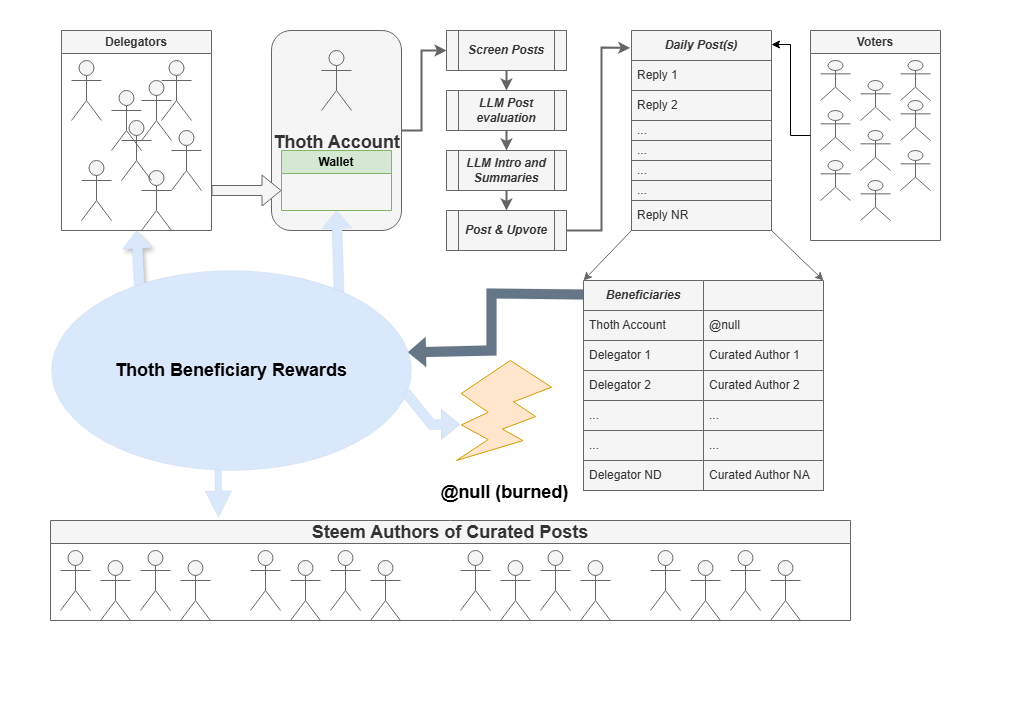
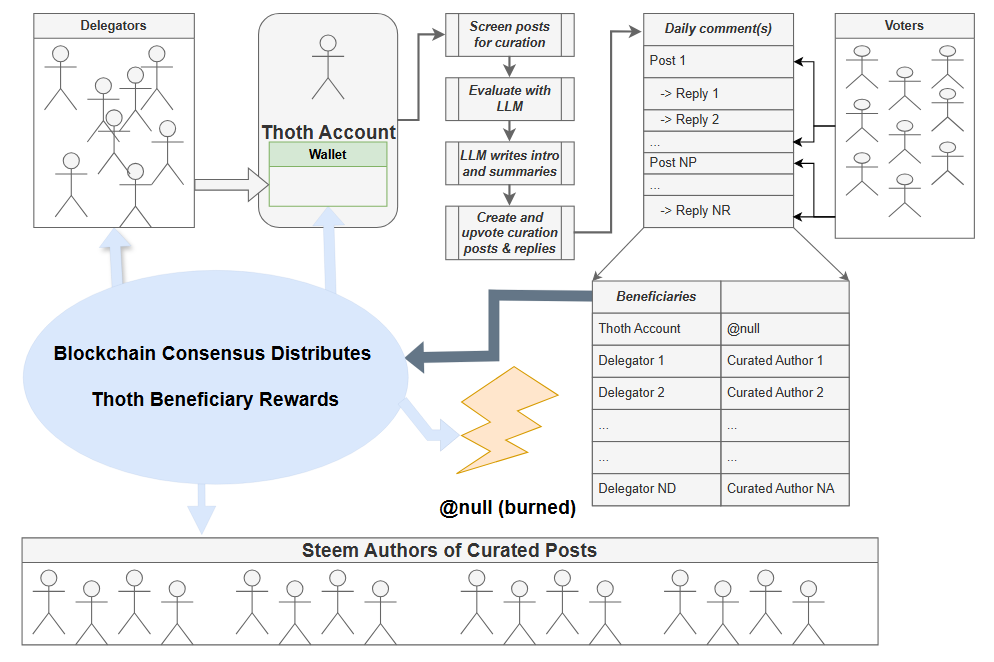
- Updated config template with additional parameters - Updated posts and replies to contain separate enumarations for beneficiary types. - Updated the process diagram for clarity

diff --git a/src/replyHelper.py b/src/replyHelper.py
@@ -5,6 +5,8 @@ import configparser
 import time
 import delegationInfo
 import threading
+import utils
+import steembase.exceptions # Required for specific exception handling
 
 # Create a ConfigParser object
 config = configparser.ConfigParser()
@@ -65,8 +67,44 @@ def create_beneficiary_list(beneficiary_list, curatedAuthorWeight, delegatorWeig
     return beneficiary_dicts
 
 def vote_in_background(postingAccount, permlink, voteWeight=100):
-    time.sleep(300)
-    Steem().commit.vote(f"@{postingAccount}/{permlink}", voteWeight, postingAccount)
+    """
+    Waits for an initial period, then attempts to vote in a loop until successful.
+    Retries upon failure, especially for vote timing errors.
+    """
+    initial_wait_seconds = 300  # 5 minutes
+    retry_delay_seconds = 5     # Base retry delay for general errors
+    vote_interval_retry_delay_base = 3 # Base delay for vote interval errors (Steem rule)
+    max_retries = 20
+    retries = 0
+
+    print(f"Vote for @{postingAccount}/{permlink} scheduled. Waiting {initial_wait_seconds // 60} minutes before first attempt...")
+    time.sleep(initial_wait_seconds)
+
+    while retries < max_retries:
+        try:
+            # Using simple Steem() instantiation as per current design in this function
+            s_instance = Steem()
+            print(f"Attempting to vote for @{postingAccount}/{permlink} (Attempt {retries + 1}/{max_retries})...")
+            s_instance.commit.vote(f"@{postingAccount}/{permlink}", voteWeight, postingAccount)
+            print(f"Successfully voted for @{postingAccount}/{permlink}")
+            break  # Exit loop on successful vote
+        except steembase.exceptions.RPCError as rpc_e:
+            retries += 1
+            if "STEEM_MIN_VOTE_INTERVAL_SEC" in str(rpc_e) or "Can only vote once every 3 seconds" in str(rpc_e):
+                # Add a small random jitter to the 3-second base to avoid thundering herd
+                wait_time = vote_interval_retry_delay_base + random.uniform(0.1, 1.0)
+                print(f"Vote for @{postingAccount}/{permlink} failed due to rate limit: {rpc_e}. Retrying in {wait_time:.2f} seconds (Attempt {retries}/{max_retries})...")
+                time.sleep(wait_time)
+            else:
+                print(f"Vote for @{postingAccount}/{permlink} failed with RPCError: {rpc_e}. Retrying in {retry_delay_seconds} seconds (Attempt {retries}/{max_retries})...")
+                time.sleep(retry_delay_seconds)
+        except Exception as e:
+            retries += 1
+            print(f"Vote for @{postingAccount}/{permlink} failed with an unexpected error: {e}. Retrying in {retry_delay_seconds} seconds (Attempt {retries}/{max_retries})...")
+            time.sleep(retry_delay_seconds)
+
+    if retries >= max_retries:
+        print(f"Failed to vote for @{postingAccount}/{permlink} after {max_retries} attempts.")
 
 def postReply (comment_item, ai_response_item, item_index, thothAccount, thothPermlink):
     """
@@ -148,26 +186,14 @@ This post was generated with the assistance of the following AI model: <i>{confi
         raw_beneficiaries_input.append(f"d-{delegator_name}") # Add selected delegators
         
     beneficiaryList = create_beneficiary_list(raw_beneficiaries_input, curatedAuthorWeight, adjustedDelegatorWeight)
-    body += f"\n\n<br><br>Beneficiaries:<br><br>"
-    body += "<table>"
-    
-    # Define the number of columns
-    columns = 2
-    for i, beneficiary in enumerate(beneficiaryList):
-        if i % columns == 0:  # Start a new row for every 'columns' items
-            body += "<tr>\n"
-        body += f'   <td>{beneficiary["account"]} / {beneficiary["weight"] / 100}%</td>\n'
-        if (i + 1) % columns == 0:  # Close the row after 'columns' items
-            body += "</tr>\n"
-    
-    # Fill remaining cells in the last row, if necessary
-    remaining_cells = columns - (len(beneficiaryList) % columns)
-    if remaining_cells != columns:  # Only add if the last row isn't full
-        for _ in range(remaining_cells):
-            body += "   <td></td>\n"  # Add empty cells
-        body += "</tr>\n"
-    
-    body += "</table><br><br>\n"
+    author_account = [comment_item['author']]
+    # selected_delegators is already defined above
+    body += utils.generate_beneficiary_display_html(
+        beneficiary_list=beneficiaryList,
+        author_accounts=author_account,
+        delegator_accounts=selected_delegators,
+        thoth_account=postingAccount
+    )
 
     metadata = {
         "app": "Thoth/0.0.1"

diff --git a/src/utils.py b/src/utils.py
@@ -74,3 +74,93 @@ def remove_formatting(text):
     text = re.sub(r'<script>.*?</script>', '', text)  # Remove HTML scripts
     text = re.sub(r'<style>.*?</style>', '', text)  # Remove HTML styles
     return text
+
+def generate_beneficiary_display_html(beneficiary_list, author_accounts, delegator_accounts, thoth_account, columns=2):
+    """
+    Generates an HTML block to display beneficiaries, categorized by role.
+
+    Args:
+        beneficiary_list (list): The final list of beneficiary dicts [{'account': name, 'weight': w}, ...].
+        author_accounts (list): A list of author account names.
+        delegator_accounts (list): A list of delegator account names.
+        thoth_account (str): The name of the bot/operator account.
+        columns (int): The number of columns for the tables.
+
+    Returns:
+        str: The generated HTML string.
+    """
+    
+    # Create a lookup map for weights for easy access
+    beneficiary_weights = {b['account']: b['weight'] for b in beneficiary_list}
+    null_account = 'null'
+    
+    def _generate_table_html(title, accounts, weights_map, gratitude_message=""):
+        """Nested helper to generate a single HTML table."""
+        # Filter for accounts that are actually in the final beneficiary list and have a weight > 0
+        display_items = []
+        for acc in accounts:
+            if acc in weights_map and weights_map[acc] > 0:
+                display_items.append({'account': acc, 'weight': weights_map[acc]})
+
+        if not display_items:
+            return ""
+
+        # Sort alphabetically by account name
+        display_items.sort(key=lambda x: x['account'])
+
+        html = f"<h4>{title}</h4>\n"
+        if gratitude_message:
+            html += f'<p><i>{gratitude_message}</i></p>\n'
+        html += "<table>\n"
+        
+        for i, item in enumerate(display_items):
+            if i % columns == 0:
+                html += "<tr>\n"
+            
+            percentage = item['weight'] / 100.0
+            formatted_percentage = f"{percentage:g}" # Use :g to remove trailing .0
+            html += f'   <td>{item["account"]} / {formatted_percentage}%</td>\n'
+            
+            if (i + 1) % columns == 0:
+                html += "</tr>\n"
+                
+        # Fill remaining cells in the last row if it's not full
+        remaining_cells = len(display_items) % columns
+        if remaining_cells != 0:
+            for _ in range(columns - remaining_cells):
+                html += "   <td></td>\n"
+            html += "</tr>\n"
+            
+        html += "</table>\n"
+        return html
+
+    # Start building the main HTML string
+    body = f"\n\n<br><br><h3>Beneficiaries</h3>"
+
+    # 1. Thoth Operator
+    if thoth_account in beneficiary_weights and beneficiary_weights[thoth_account] > 0:
+        percentage = beneficiary_weights[thoth_account] / 100.0
+        formatted_percentage = f"{percentage:g}"
+        body += f'<h4>Thoth Operator</h4>\n<p>{thoth_account} / {formatted_percentage}%</p>\n' # No @ sign
+
+    # 2. Curated Authors
+    unique_authors = sorted(list(set(author_accounts)))
+    if unique_authors:
+        author_title = "Curated Author" if len(unique_authors) == 1 else "Curated Authors"
+        author_gratitude = "Thank you for creating the content that makes Steem a vibrant and interesting place. Your creativity is the foundation of our social ecosystem."
+        body += _generate_table_html(author_title, unique_authors, beneficiary_weights, gratitude_message=author_gratitude)
+
+    # 3. Delegators
+    if delegator_accounts:
+        delegator_title = "Delegator" if len(delegator_accounts) == 1 else "Delegators"
+        delegator_gratitude = "Delegator support is crucial for the Thoth project's ability to find and reward attractive content. Thank you for investing in the Steem ecosystem and the Thoth project."
+        body += _generate_table_html(delegator_title, sorted(delegator_accounts), beneficiary_weights, gratitude_message=delegator_gratitude)
+
+    # 4. Burn Account (@null)
+    if null_account in beneficiary_weights and beneficiary_weights[null_account] > 0:
+        percentage = beneficiary_weights[null_account] / 100.0
+        formatted_percentage = f"{percentage:g}"
+        body += f'<h4>Burn Account</h4>\n<p>{null_account} / {formatted_percentage}%</p>\n'
+
+    body += "<br><br>\n"
+    return body

diff --git a/src/postHelper.py b/src/postHelper.py
@@ -7,6 +7,7 @@ import time
 import contentValidation
 import delegationInfo
 import threading
+import utils
 
 import replyHelper # From the thoth package
 
@@ -174,27 +175,15 @@ This will be done by:
     for delegator in delegatorList[:delegatorCount]:
         beneficiaryList.append(f"d-{delegator}")
         
-    beneficiaryList = create_beneficiary_list ( beneficiaryList )
-    body += f"\n\n<br><br>Beneficiaries:<br><br>"
-    body += "<table>"
-    
-    # Define the number of columns
-    columns = 2
-    for i, beneficiary in enumerate(beneficiaryList):
-        if i % columns == 0:  # Start a new row for every 'columns' items
-            body += "<tr>\n"
-        body += f'   <td>{beneficiary["account"]} / {beneficiary["weight"] / 100}%</td>\n'
-        if (i + 1) % columns == 0:  # Close the row after 'columns' items
-            body += "</tr>\n"
-    
-    # Fill remaining cells in the last row, if necessary
-    remaining_cells = columns - (len(beneficiaryList) % columns)
-    if remaining_cells != columns:  # Only add if the last row isn't full
-        for _ in range(remaining_cells):
-            body += "   <td></td>\n"  # Add empty cells
-        body += "</tr>\n"
-    
-    body += "</table><br><br>\n"
+    beneficiaryList = create_beneficiary_list(beneficiaryList)
+    author_accounts = [c['author'] for c in commentList]
+    selected_delegators = delegatorList[:delegatorCount]
+    body += utils.generate_beneficiary_display_html(
+        beneficiary_list=beneficiaryList,
+        author_accounts=author_accounts,
+        delegator_accounts=selected_delegators,
+        thoth_account=postingAccount
+    )
 
     permlink = f"thoth{randValue}"
 
